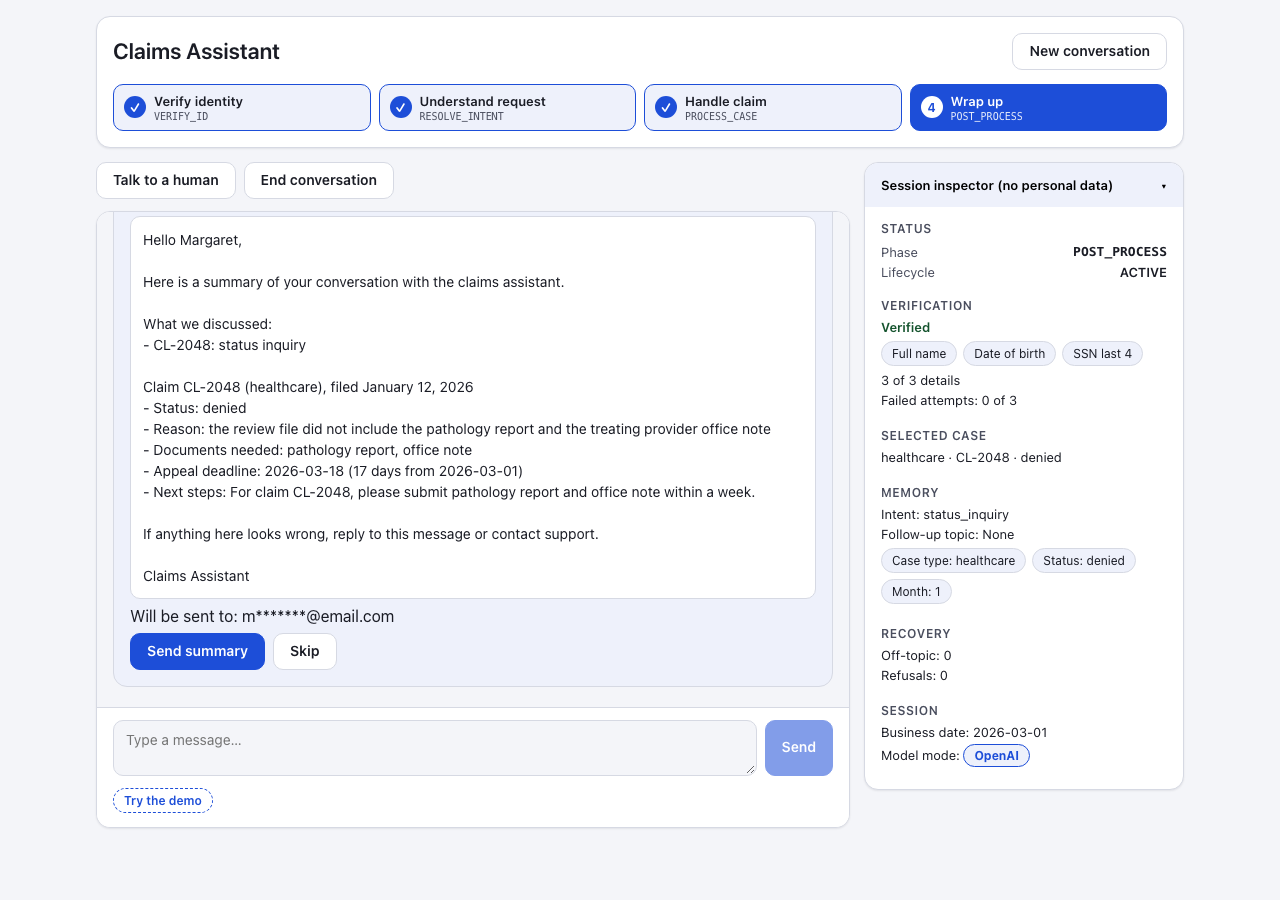
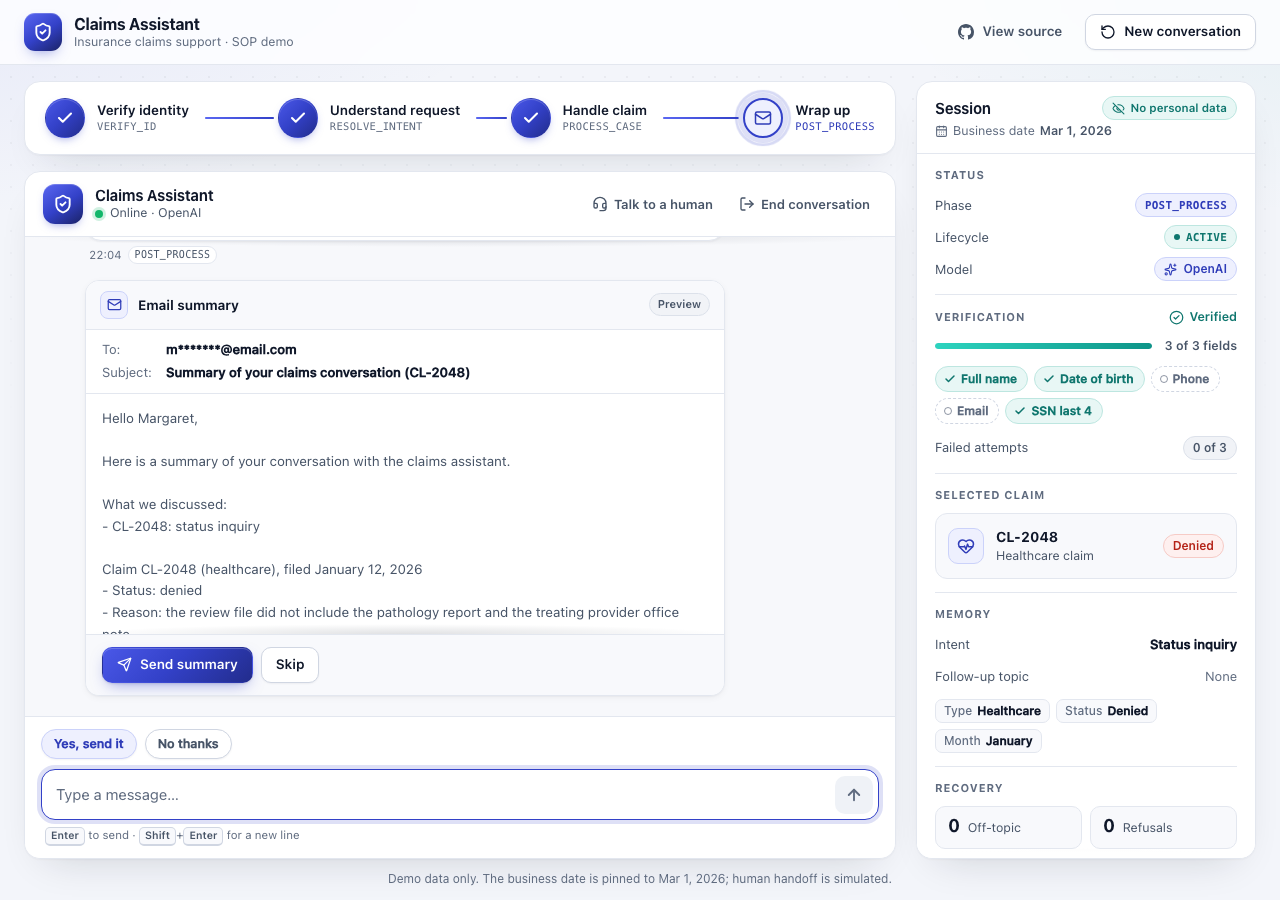
docs: refresh screenshots and demo instructions for the new UI

diff --git a/README.md b/README.md
@@ -2,7 +2,7 @@
 
 A chat agent for insurance claims support that follows a standard operating procedure in four phases. An LLM (OpenAI or Claude, whichever key you provide) reads each message and words each reply. Deterministic code decides everything in between: who the caller is, what they may see, and what happens next.
 
-**Live demo:** https://claims-assistant-4wy7.onrender.com. It runs on Render's free plan: the first visit after 15 idle minutes takes about a minute to wake. Click **Try the demo** under the chat box.
+**Live demo:** https://claims-assistant-4wy7.onrender.com. It runs on Render's free plan: the first visit after 15 idle minutes takes about a minute to wake. Click the **Demo: Margaret Chen** suggestion above the message box.
 
 | Phase | What happens | Gate to leave it |
 |---|---|---|
@@ -50,7 +50,7 @@ Without an API key the app still works, in a rule-based offline mode. The inspec
 
 ### Try the demo script
 
-Click **Try the demo** under the input box, or paste:
+Click the **Demo: Margaret Chen** suggestion above the message box, or paste:
 
 > I'm the policyholder. My name is Margaret Chen, policy POL-9921. I'm calling about my denied healthcare claim from January. DOB is 1985-03-15, SSN last four is 4472.
 

diff --git a/deploy/huggingface/README.md b/deploy/huggingface/README.md
@@ -22,6 +22,6 @@ The verification, disclosure and consent rules are enforced in code, not by the 
 
 Source, setup docs and design notes: https://github.com/HarshithKoriRaj/insurance-claims-sop-harness
 
-Click **Try the demo** under the chat box to load the Margaret Chen test message.
+Click the **Demo: Margaret Chen** suggestion above the message box to load the test message.
 
 This Space runs the image that GitHub Actions publishes from `main` (see `Dockerfile`). It has no mail server, so an approved email summary is recorded and shown in the chat but not delivered to an inbox. Human handoff is simulated.
